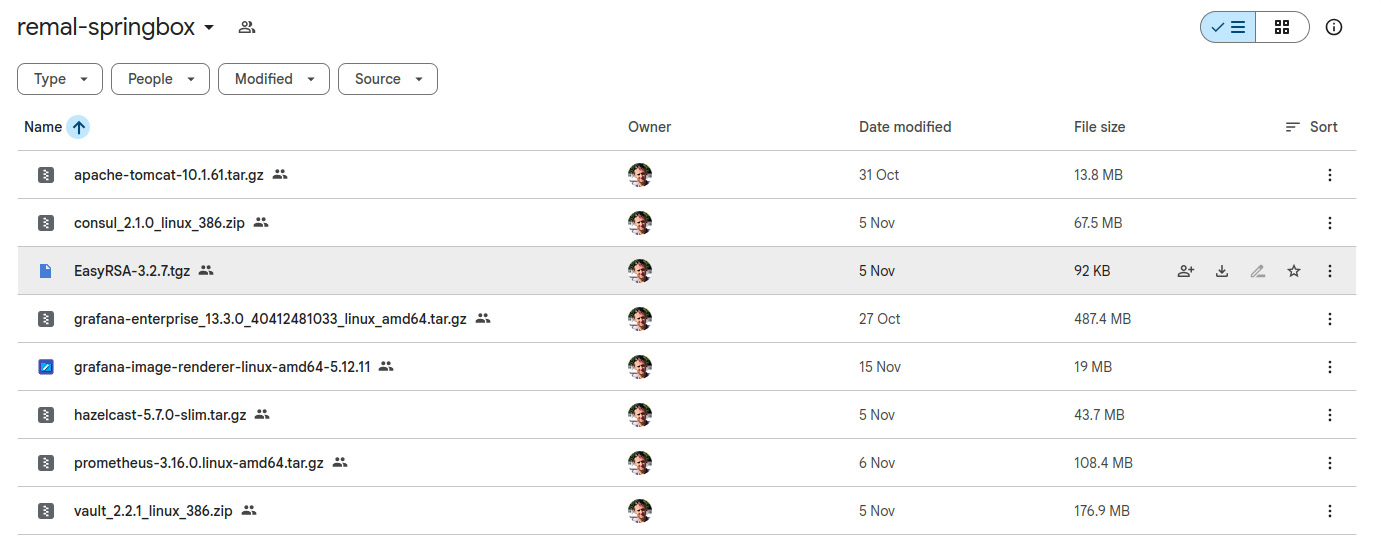
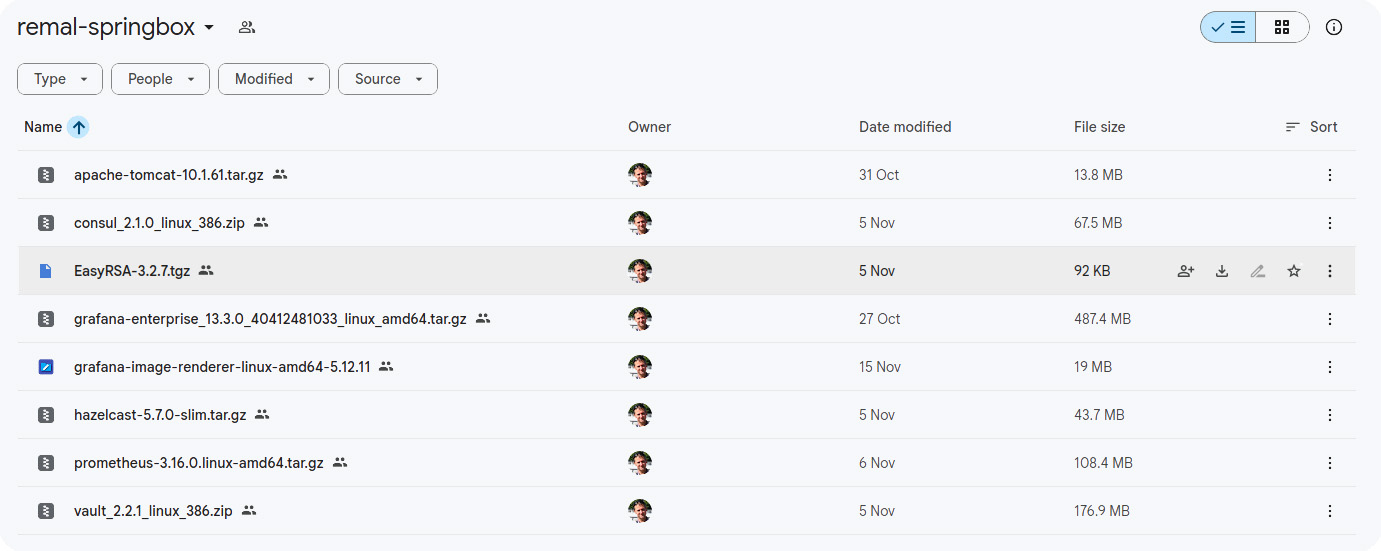
update spring-box documentation tool

diff --git a/docs/_pages/virtualization/docker/spring-box.md b/docs/_pages/virtualization/docker/spring-box.md
@@ -85,7 +85,7 @@ This lets start-ups and small-to-medium teams to eliminate configuration overhea
 * **Ready-to-run demo applications:** Comes with fully functional _Spring Boot_ reference applications that show you exactly how everything fits together. These examples give your team a head start by demonstrating how to use the platform's caching, service discovery, databases, and metrics in a real-world setup.
 
 ### 5) Docker Containers in the _Spring Box_ Ecosystem
-![Spring-Box image hierarchy](/assets/images/menu/virtualization/docker/spring-box/spring-box-image-hierarchy.png){: .centered-image }
+![Spring-Box image hierarchy](/assets/images/menu/virtualization/docker/spring-box/remal-springbox-image-hierarchy.png){: .centered-image }
 
 ### 6) <span class="rect-space color-base"></span> The Spring-Box Base Image
 Image name: `springbox-base`
